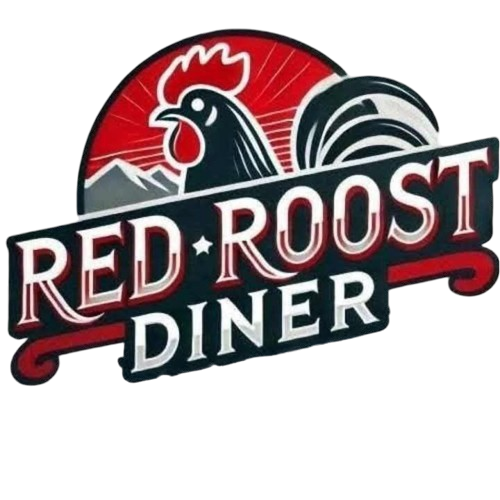
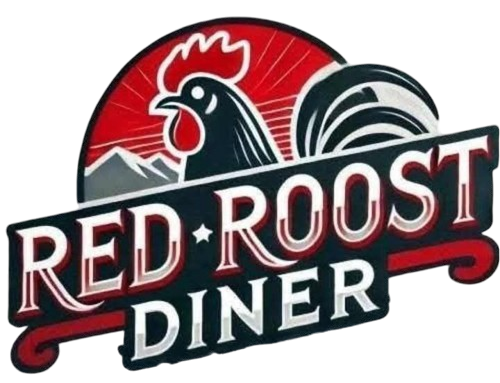
updated sytling

diff --git a/lunch.html b/lunch.html
@@ -9,10 +9,9 @@
     <link rel="stylesheet" href="https://cdn.jsdelivr.net/npm/bootstrap@4.3.1/dist/css/bootstrap.min.css"
         integrity="sha384-ggOyR0iXCbMQv3Xipma34MD+dH/1fQ784/j6cY/iJTQUOhcWr7x9JvoRxT2MZw1T" crossorigin="anonymous">
  
-<link rel="preconnect" href="https://fonts.googleapis.com">
-<link rel="preconnect" href="https://fonts.gstatic.com" crossorigin>
-<link href="https://fonts.googleapis.com/css2?family=Londrina+Sketch&family=Playpen+Sans+Deva:wght@100..800&display=swap" rel="stylesheet">
-<link href="https://fonts.googleapis.com/css2?family=Playpen+Sans&display=swap" rel="stylesheet">
+        <link rel="preconnect" href="https://fonts.googleapis.com">
+        <link rel="preconnect" href="https://fonts.gstatic.com" crossorigin>
+        <link href="https://fonts.googleapis.com/css2?family=Londrina+Sketch&family=Shadows+Into+Light&display=swap" rel="stylesheet">
 <script src="https://kit.fontawesome.com/f595c3e68f.js" crossorigin="anonymous"></script>
 
     <script defer src="script.js"></script>
@@ -39,7 +38,7 @@
 
 
     <div class="main">
-        <div class="mainlogo1">
+        <div class="mainlogo">
             <img src="/img/redroostdiner-removebg-preview.png" alt="Red Roost Diner Logo"> 
 
     </div>
@@ -117,10 +116,10 @@
 
 <h3 class="menu-subsection">Sides</h3>
 
-<div class="menu-item"><span class="item-name">Fries</span><span class="item-price">small $2.99 | large $3.99</span></div>
-<div class="menu-item"><span class="item-name">Cheese Fries</span><span class="item-price">small $3.49 | large $4.49</span></div>
-<div class="menu-item"><span class="item-name">Chill Cheese Fries</span><span class="item-price">small $4.99 | large $5.99</span></div>
-<div class="menu-item"><span class="item-name">Gravy Fries</span><span class="item-price">small $3.49 | large $4.49</span></div>
+<div class="menu-item"><span class="item-name">Fries</span><span class="item-price">small $2.99, large $3.99</span></div>
+<div class="menu-item"><span class="item-name">Cheese Fries</span><span class="item-price">small $3.49, large $4.49</span></div>
+<div class="menu-item"><span class="item-name">Chill Cheese Fries</span><span class="item-price">small $4.99, large $5.99</span></div>
+<div class="menu-item"><span class="item-name">Gravy Fries</span><span class="item-price">small $3.49, large $4.49</span></div>
 <div class="menu-item"><span class="item-name">Onion Rings</span><span class="item-price">$4.99</span></div>
 <div class="menu-item"><span class="item-name">Breaded Mushrooms</span><span class="item-price">$4.99</span></div>
 <div class="menu-item"><span class="item-name">Jalapeno Poppers</span><span class="item-price">$4.99</span></div>

diff --git a/styles.css b/styles.css
@@ -1,11 +1,11 @@
 /* Global Styles */
 body {
-    font-family: 'Playpen Sans', cursive !important;
+    font-family: 'Shadows Into Light', cursive !important;
     background-color: #000 !important;
     color: #fff;
     padding: 20px;
     margin: 0;
-    font-weight: 300;
+    font-weight: 400;
   font-style: normal;
 }
 
@@ -36,6 +36,7 @@ body {
     color: white;
     font-weight: 700;
     font-size: 1.2rem;
+    letter-spacing: 0.1em;
     text-transform: uppercase;
     transition: color 0.3s;
     font-family: 'Londrina Sketch', sans-serif !important;
@@ -52,19 +53,40 @@ body {
     height: auto;
     margin: 30px auto;
     display: block;
+    margin-bottom: 0 !important;
+   
    
 
+}
+.mainlogoo img {
+    background-color: white;
 }
 
 .mainlogo1 {
     text-align: center;
     margin-top: 20px;
+    
 }
 
 .mainlogo1 img {
-    max-width: 100%;
-    height: auto;
+    
+    display: block;
+  margin: 0 auto; /* center the image */
+  padding: 0;
+  max-width: 100%;
+  height: auto;
+ 
 }
+
+
+
+
+  
+  .mainlogo h3,
+  .mainlogo h4 {
+    margin: 0 !important;
+    padding: 0 !important;
+  }
 
 .about {
     margin-top: 30px;
@@ -99,7 +121,7 @@ body {
 }
 
 /* Section Headings */
-.menu-section {
+.menu-section, h2 {
     font-size: 6rem !important;
     font-weight: 700;
     color: #b2030a;
@@ -111,11 +133,11 @@ body {
 
 /* Section Note */
 .menu-note {
-    font-size: 1rem;
+    font-size: 25px;
     text-align: center;
     margin-bottom: 2rem;
     color: #ccc;
-    font-style: italic;
+   
 }
 
 /* Columns Layout */
@@ -156,9 +178,8 @@ body {
 
 /* Small notes under subsections */
 .menu-note-small {
-    font-size: 0.85rem;
+    font-size: 20px;
     margin-bottom: 1rem;
-    font-style: italic;
     color: #aaa;
 }
 
@@ -167,7 +188,7 @@ body {
     display: flex;
     justify-content: space-between;
     padding: 5px 0;
-    font-size: 1.1rem;
+    font-size: 30px;
     border-bottom: 1px dotted #444;
 }
 

diff --git a/index.html b/index.html
@@ -12,16 +12,15 @@
         integrity="sha384-ggOyR0iXCbMQv3Xipma34MD+dH/1fQ784/j6cY/iJTQUOhcWr7x9JvoRxT2MZw1T" crossorigin="anonymous" />
 
     <!-- Fonts -->
-    <link rel="preconnect" href="https://fonts.googleapis.com" />
-    <link rel="preconnect" href="https://fonts.gstatic.com" crossorigin />
-    <link href="https://fonts.googleapis.com/css2?family=Londrina+Sketch&family=Playpen+Sans&display=swap" rel="stylesheet" />
-
+    <link rel="preconnect" href="https://fonts.googleapis.com">
+    <link rel="preconnect" href="https://fonts.gstatic.com" crossorigin>
+    <link href="https://fonts.googleapis.com/css2?family=Londrina+Sketch&family=Shadows+Into+Light&display=swap" rel="stylesheet">
     <!-- Icons -->
     <script src="https://kit.fontawesome.com/f595c3e68f.js" crossorigin="anonymous"></script>
 
     <!-- Scripts -->
     <script defer src="script.js"></script>
-</head>
+</head> 
 
 <body>
     <header class="header">
@@ -37,12 +36,14 @@
         </nav>
     </header>
 
-    <div class="main">
+   
         <div class="mainlogo1">
-            <img src="/img/redroostdiner-removebg-preview.png" alt="Red Roost Diner Logo" />
+            <img src="/img/redroostdiner-removebg-preview.png" alt="Red Roost Diner Logo" class="mainlogoo"/>
             <h3 class="about">HOME OF THE HUNGER BOARD</h3>
             <h4>If you're hungry, come on in...We'll feed ya!</h4>
         </div>
+    </br>
+
 
         <h3 class="about">HOURS:</h3>
         <h4>Mon & Tues: 7am - 7pm</h4>
@@ -60,7 +61,7 @@
 
         <h3 class="about">LOCATION:</h3>
         <h4>807 Pleasantview Blvd, Bellefonte, PA 16823</h4>
-    </div>
+   
 </body>
 
 </html>

diff --git a/breakfast.html b/breakfast.html
@@ -9,10 +9,9 @@
     <link rel="stylesheet" href="https://cdn.jsdelivr.net/npm/bootstrap@4.3.1/dist/css/bootstrap.min.css"
         integrity="sha384-ggOyR0iXCbMQv3Xipma34MD+dH/1fQ784/j6cY/iJTQUOhcWr7x9JvoRxT2MZw1T" crossorigin="anonymous">
  
-<link rel="preconnect" href="https://fonts.googleapis.com">
-<link rel="preconnect" href="https://fonts.gstatic.com" crossorigin>
-<link href="https://fonts.googleapis.com/css2?family=Londrina+Sketch&family=Playpen+Sans+Deva:wght@100..800&display=swap" rel="stylesheet">
-<link href="https://fonts.googleapis.com/css2?family=Playpen+Sans&display=swap" rel="stylesheet">
+        <link rel="preconnect" href="https://fonts.googleapis.com">
+        <link rel="preconnect" href="https://fonts.gstatic.com" crossorigin>
+        <link href="https://fonts.googleapis.com/css2?family=Londrina+Sketch&family=Shadows+Into+Light&display=swap" rel="stylesheet">
 
 
     <script src="https://kit.fontawesome.com/a076d05399.js" crossorigin="anonymous"></script>
@@ -39,12 +38,13 @@
     </header>
 
 
-    <div class="main">
+   
         <div class="mainlogo">
             <img src="/img/redroostdiner-removebg-preview.png" alt="Red Roost Diner Logo">
             <h3>HOME OF THE HUNGER BOARD</h3>
             <H4>If you're hungry, come on in...We'll feed ya!</H4>
         </div>
+</br>
 
         <div class="menu-wrapper">
 
@@ -102,7 +102,7 @@
             <div class="menu-item"><span class="item-name">Scrapple (2)</span><span class="item-price">$4.99</span></div>
           </section>
 </div>
-</div>
+
 </body>
 
 </html>

diff --git a/drinks.html b/drinks.html
@@ -9,10 +9,9 @@
     <link rel="stylesheet" href="https://cdn.jsdelivr.net/npm/bootstrap@4.3.1/dist/css/bootstrap.min.css"
         integrity="sha384-ggOyR0iXCbMQv3Xipma34MD+dH/1fQ784/j6cY/iJTQUOhcWr7x9JvoRxT2MZw1T" crossorigin="anonymous">
  
-<link rel="preconnect" href="https://fonts.googleapis.com">
-<link rel="preconnect" href="https://fonts.gstatic.com" crossorigin>
-<link href="https://fonts.googleapis.com/css2?family=Londrina+Sketch&family=Playpen+Sans+Deva:wght@100..800&display=swap" rel="stylesheet">
-<link href="https://fonts.googleapis.com/css2?family=Playpen+Sans&display=swap" rel="stylesheet">
+        <link rel="preconnect" href="https://fonts.googleapis.com">
+        <link rel="preconnect" href="https://fonts.gstatic.com" crossorigin>
+        <link href="https://fonts.googleapis.com/css2?family=Londrina+Sketch&family=Shadows+Into+Light&display=swap" rel="stylesheet">
 <script src="https://kit.fontawesome.com/f595c3e68f.js" crossorigin="anonymous"></script>
 
     <script defer src="script.js"></script>
@@ -39,7 +38,7 @@
 
 
 <div class="main">
-    <div class="mainlogo1">
+    <div class="mainlogo">
         <img src="/img/redroostdiner-removebg-preview.png" alt="Red Roost Diner Logo"> 
 
 </div>
